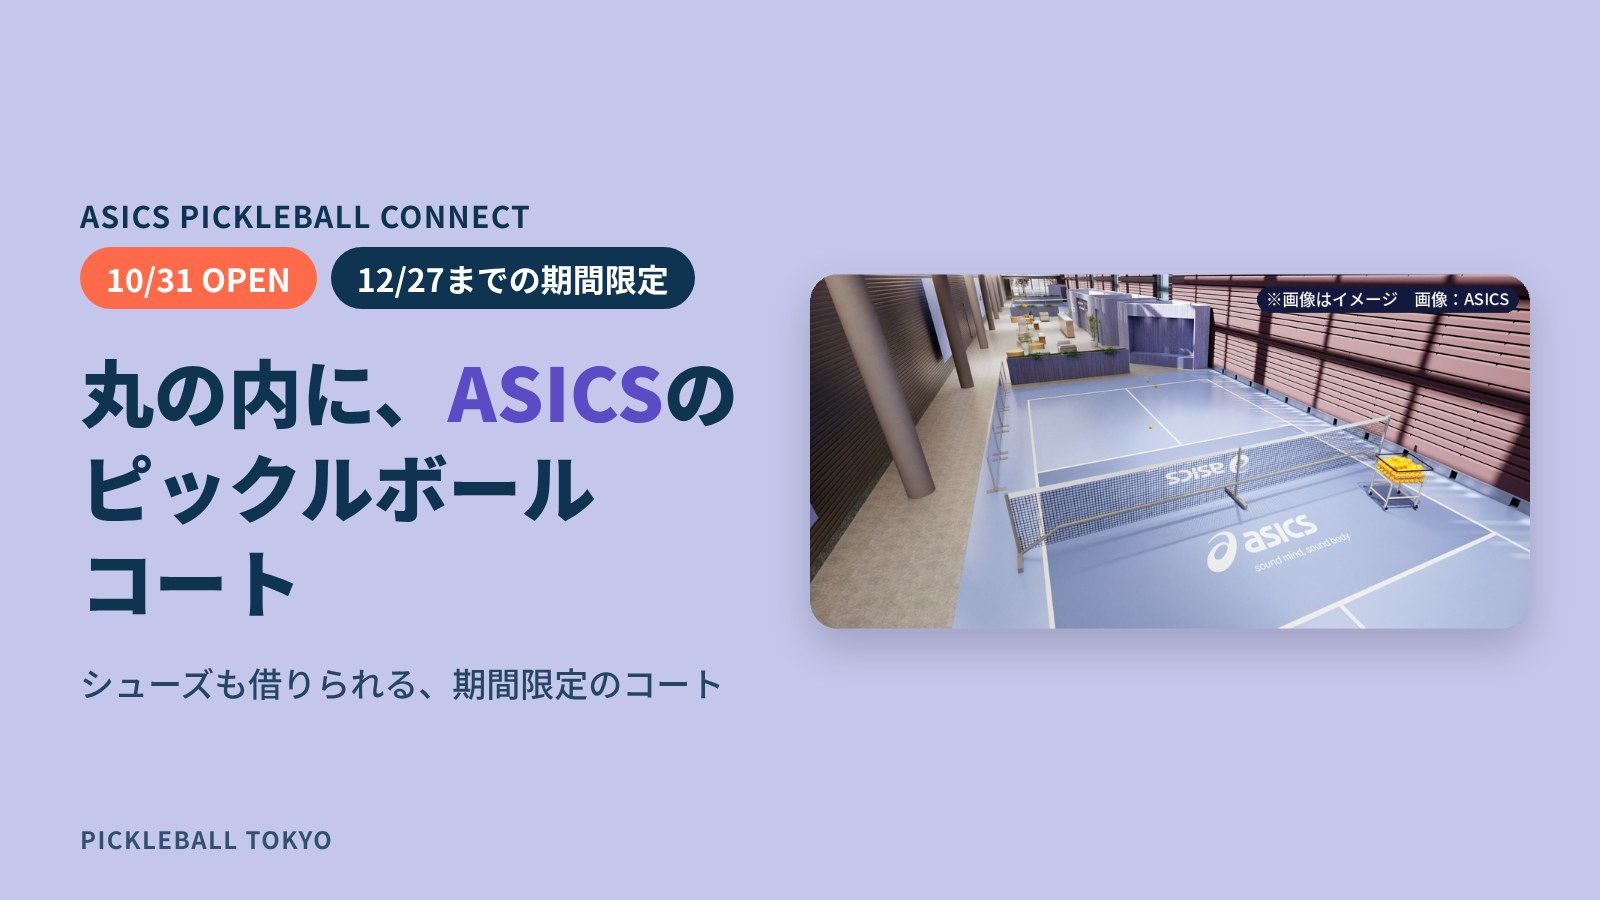
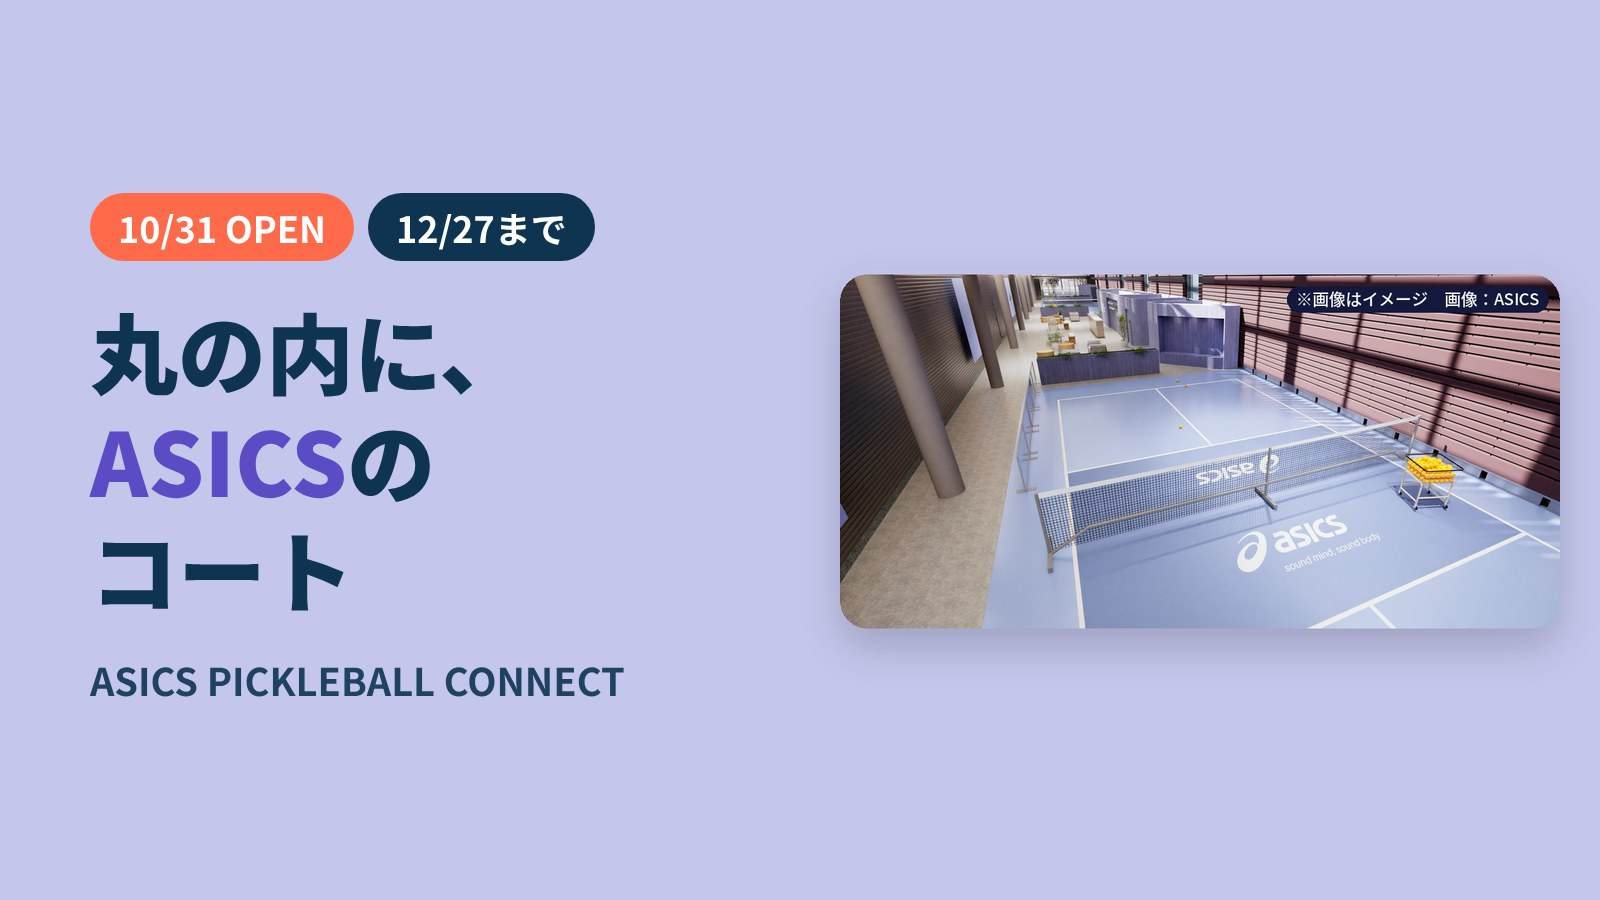
記事一覧のバナーを同じ型にそろえる
見出しの大きさ（88px・1行8文字まで）、札とひとことの大きさ、右の絵の面積を全バナーでそろえた。
横長だった2本（アメリカ・友達と）も同じ型で作り直し、切り抜きに残っていた文字を消した。

Claude-Session: https://claude.ai/code/session_01KuMrUZVe321Cpe2gX2uXD6

diff --git a/social/instagram/scripts/banner.py b/social/instagram/scripts/banner.py
@@ -9,25 +9,25 @@ IMG = os.path.join(ROOT, 'public/images/posts')
 W, H = 1600, 900
 NAVY = '#0e3452'; SUN = '#ffd678'; CORAL = '#ff6b4a'; WHITE = '#ffffff'; PURPLE = '#5b4bc4'
 
-# 表紙のファイル、切り抜く範囲（1080×1350の座標）、背景色、文字色、札、見出し、ひとこと
+# 全部同じ型：見出しは88pxで1行8文字まで・3行まで、右の絵は同じ枠（680×680）に収める
+# 表紙のファイル、切り抜く範囲（元画像の座標）、背景色（Noneなら表紙の左上の色）、文字色、札、見出し、ひとこと
 B = {
   'dink-strategy': dict(src='dink-strategy.jpg', crop=(0, 660, 1080, 1250), full=True,
       bg='#0a1d2e', fg=WHITE, tags=[('ちょっと戦術', SUN, NAVY)],
-      lines=[[('ピックルボールは、', WHITE)], [('強く打った方が', WHITE)], [('負ける？', SUN)]],
-      sub='ネット際で「ふわっ」と打ち合う理由'),
+      lines=[[('強く打った方が', WHITE)], [('負ける？', SUN)]],
+      sub='ネット際で「ふわっ」と打つ理由'),
   'doubles-scoring': dict(src='doubles-scoring.png', crop=(60, 640, 1020, 1240),
       bg='#ff6b4a', fg=WHITE, tags=[('保存版', WHITE, CORAL), ('ダブルス', NAVY, WHITE)],
       lines=[[('「0-0-2」', NAVY)], [('って、何の数字？', WHITE)]],
       sub='点数と、立つ場所が絵でわかる'),
   'after-work-courts': dict(src='after-work-courts.png', crop=(56, 680, 1024, 1240),
       bg=None, fg=WHITE, tags=[('保存版', CORAL, WHITE)],
-      lines=[[('仕事帰りに', WHITE), ('行ける', SUN)], [('ピックルボール', WHITE)], [('コート5選', WHITE)]],
-      sub='夜遅くまで開いている、駅近の屋内コート'),
+      lines=[[('仕事帰りに', WHITE), ('行ける', SUN)], [('コート5選', WHITE)]],
+      sub='夜遅くまで開いている駅近の屋内'),
   'asics-pickleball-connect': dict(src='asics-pickleball-connect.png', crop=(60, 520, 1020, 1000),
-      bg=None, fg=NAVY, tags=[('10/31 OPEN', CORAL, WHITE), ('12/27までの期間限定', NAVY, WHITE)],
-      kicker='ASICS PICKLEBALL CONNECT',
-      lines=[[('丸の内に、', NAVY), ('ASICS', PURPLE), ('の', NAVY)], [('ピックルボール', NAVY)], [('コート', NAVY)]],
-      sub='シューズも借りられる、期間限定のコート'),
+      bg=None, fg=NAVY, tags=[('10/31 OPEN', CORAL, WHITE), ('12/27まで', NAVY, WHITE)],
+      lines=[[('丸の内に、', NAVY)], [('ASICS', PURPLE), ('の', NAVY)], [('コート', NAVY)]],
+      sub='ASICS PICKLEBALL CONNECT'),
   'what-to-wear': dict(src='what-to-wear.png', crop=(66, 636, 1028, 1236),
       bg=None, fg=NAVY, tags=[('保存版', CORAL, WHITE), ('はじめての人へ', NAVY, WHITE)],
       lines=[[('何、着ていく？', NAVY)], [('何、持っていく？', CORAL)]],
@@ -40,9 +40,16 @@ B = {
       bg=None, fg=WHITE, tags=[('10/25（日）がねらい目', CORAL, WHITE)],
       lines=[[('今週末、', WHITE)], [('ピックルボール', SUN)], [('やってみない？', WHITE)]],
       sub='東京近郊で、日曜に行ける体験会'),
+  'usa-pickleball-boom': dict(src='usa-pickleball-boom.png', crop=(830, 20, 1200, 630), noframe=True,
+      bg=None, fg=WHITE, tags=[('アメリカのいま', CORAL, WHITE)],
+      lines=[[('アメリカで', WHITE)], [('大ブーム', SUN), ('の', WHITE)], [('ピックルボール', WHITE)]],
+      sub='プレー人口・賞金・TV中継・セレブ'),
+  'start-with-friends': dict(src='start-with-friends.png', crop=(740, 190, 1170, 570), noframe=True, nomask=True, erase=(740, 190, 920, 330),
+      bg=None, fg=WHITE, tags=[('はじめての人へ', CORAL, WHITE)],
+      lines=[[('友達と', WHITE)], [('始めるなら', WHITE)], [('この順番で', SUN)]],
+      sub='道具がなくても、今週末から'),
 }
-# 横長だけど16:9ではない画像は、背景色をのばして16:9にする
-PAD = ['start-with-friends', 'usa-pickleball-boom']
+PAD = []
 
 
 def uri(im, fmt='PNG'):
@@ -56,34 +63,41 @@ def tw(s):  # だいたいの文字幅（全角1・半角0.58）
 def html(k, c):
     src = Image.open(os.path.join(IMG, c['src'])).convert('RGB')
     bg = c['bg'] or '#%02x%02x%02x' % src.getpixel((8, 8))
+    if c.get('erase'):
+        from PIL import ImageDraw
+        ImageDraw.Draw(src).rectangle(c['erase'], fill=src.getpixel((c['crop'][0] + 4, c['crop'][1] + 4)))
     art = src.crop(c['crop'])
-    longest = max(tw(''.join(s for s, _ in l)) for l in c['lines'])
-    size = int(min(96, 660 / longest))
+    # どの絵も同じくらいの面積に見えるように大きさをそろえる
+    k = (680 * 470 / (art.width * art.height)) ** .5
+    k = min(k, 720 / art.width, 640 / art.height)
+    art = art.resize((round(art.width * k), round(art.height * k)), Image.LANCZOS)
+    size = 88
+    assert all(tw(''.join(t for t, _ in l)) <= 8.2 for l in c['lines']), k
     lines = ''.join('<div class="l">' + ''.join(f'<span style="color:{col}">{s}</span>' for s, col in l) + '</div>' for l in c['lines'])
     tags = ''.join(f'<span class="tag" style="background:{b};color:{f}">{t}</span>' for t, b, f in c['tags'])
     kick = f'<div class="kick">{c["kicker"]}</div>' if c.get('kicker') else ''
     if c.get('full'):
         right = f'<div class="full" style="background-image:url({uri(art, "JPEG")})"></div>'
     else:
-        cls = 'art bare' if c.get('noframe') else 'art'
+        cls = ('art bare' + (' nomask' if c.get('nomask') else '')) if c.get('noframe') else 'art'
         right = f'<div class="{cls}"><img src="{uri(art)}"></div>'
     return f'''<html><head><style>
 body{{margin:0}} *{{box-sizing:border-box}}
 .b{{width:{W}px;height:{H}px;background:{bg};position:relative;overflow:hidden;font-family:'Noto Sans CJK JP';color:{c["fg"]}}}
-.txt{{position:absolute;left:80px;top:0;bottom:0;width:{720}px;display:flex;flex-direction:column;justify-content:center;z-index:2}}
+.txt{{position:absolute;left:90px;top:0;bottom:0;width:{740}px;display:flex;flex-direction:column;justify-content:center;z-index:2}}
 .tags{{display:flex;gap:14px;margin-bottom:34px}}
-.tag{{font-weight:700;font-size:32px;padding:8px 26px;border-radius:40px}}
+.tag{{font-weight:700;font-size:36px;padding:8px 28px;border-radius:40px}}
 .kick{{font-weight:700;font-size:30px;letter-spacing:.04em;margin-bottom:10px}}
-.l{{font-weight:900;font-size:{size}px;line-height:1.28;white-space:nowrap}}
-.sub{{font-weight:500;font-size:34px;margin-top:30px;opacity:.88}}
+.l{{font-weight:900;font-size:{size}px;line-height:1.24;white-space:nowrap}}
+.sub{{font-weight:700;font-size:38px;margin-top:30px;opacity:.9;white-space:nowrap}}
 .foot{{position:absolute;left:80px;bottom:44px;font-weight:700;font-size:24px;letter-spacing:.06em;opacity:.8}}
-.art{{position:absolute;right:70px;top:50%;transform:translateY(-50%);width:{W-880}px;display:flex;justify-content:center}}
-.art img{{max-width:100%;max-height:{H-150}px;border-radius:28px;box-shadow:0 18px 40px rgba(0,0,0,.18)}}
-.art.bare img{{border-radius:0;box-shadow:none;-webkit-mask-image:radial-gradient(ellipse 60% 60% at 50% 50%,#000 70%,transparent 100%)}}
+.art{{position:absolute;left:840px;top:90px;width:720px;height:720px;display:flex;align-items:center;justify-content:center}}
+.art img{{border-radius:28px;box-shadow:0 18px 40px rgba(0,0,0,.18)}}
+.art.nomask img{{-webkit-mask-image:none!important}}\n.art.bare img{{border-radius:0;box-shadow:none;-webkit-mask-image:radial-gradient(ellipse 60% 60% at 50% 50%,#000 70%,transparent 100%)}}
 .full{{position:absolute;left:700px;top:50%;transform:translateY(-50%);width:{W-700}px;aspect-ratio:1080/590;background-size:cover;background-position:center;
   -webkit-mask-image:linear-gradient(90deg,transparent 0,#000 14%),linear-gradient(180deg,transparent 0,#000 16%,#000 84%,transparent 100%);-webkit-mask-composite:source-in;mask-composite:intersect}}
 </style></head><body><div class="b"><div class="txt">{kick}<div class="tags">{tags}</div>{lines}<div class="sub">{c["sub"]}</div></div>
-{right}<div class="foot">PICKLEBALL TOKYO</div></div></body></html>'''
+{right}</div></body></html>'''
 
 
 def pad(k):
